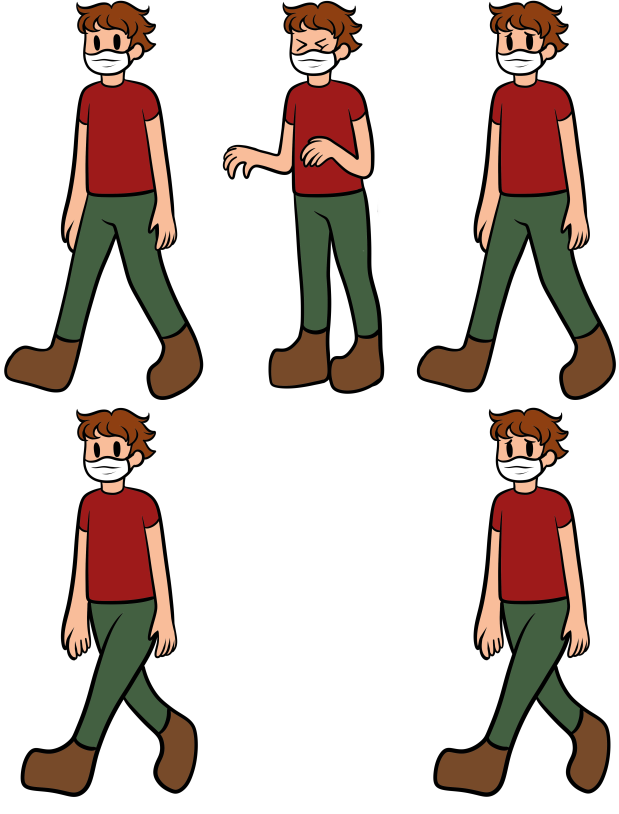
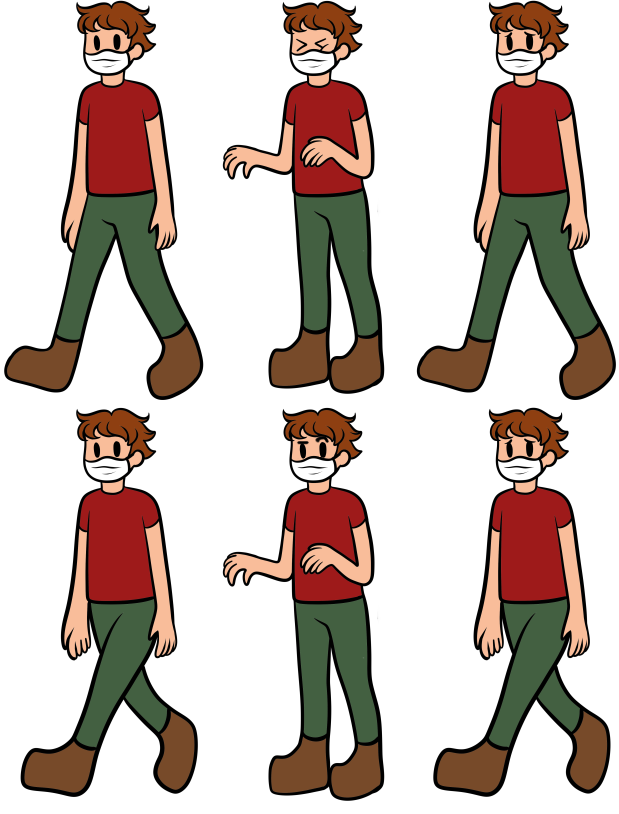
Gifle est maintenant politiquement correct

Changed region(s): [[0.3376, 0.4914, 0.6446, 0.9828]]

diff --git a/Logiciel/source/miniJeu/MiniJeuManager.cpp b/Logiciel/source/miniJeu/MiniJeuManager.cpp
@@ -8,7 +8,8 @@ MiniJeuManager::MiniJeuManager(AppData &app_):app(app_)
     addMiniJeu([](AppData& app) -> MiniJeu * { return new CorrigeCopie::CorrigeCopie(app); }, "CorrigeCopie", "descriptionAmphiReponse");
     addMiniJeu([](AppData& app) -> MiniJeu * { return new DistribMiniTests(app); }, "DistribMiniTests", "descriptionAmphiReponse");
     addMiniJeu([](AppData& app) -> MiniJeu * { return new EteindrePC::EteindrePC(app); }, "EteindrePC", "descriptionAmphiReponse");
-    addMiniJeu([](AppData& app) -> MiniJeu * { return new memoryQuestions::MemoryQuestions(app); }, "MemoryQuestions", "descriptionAmphiReponse");
+    addMiniJeu([](AppData& app) -> MiniJeu* { return new memoryQuestions::MemoryQuestions(app); }, "MemoryQuestions", "descriptionAmphiReponse");
+    addMiniJeu([](AppData& app) -> MiniJeu* { return new Gifle::Gifle(app); }, "Gifle", /*app.option.secretMode ? */"descriptionGifle"/* : "descriptionOuEstSansMasque*/);
     addBoss([](AppData& app) -> MiniJeu* { return new TestProjetPtut::TestProjetPtut(app); }, "TestProjetPtut", "descriptionAmphiReponse");
     addBoss([](AppData& app) -> MiniJeu* { return new Bronx::Bronx(app); }, "Bronx", "descriptionBronx");
 }

diff --git a/Logiciel/source/miniJeu/Gifle/Passant.cpp b/Logiciel/source/miniJeu/Gifle/Passant.cpp
@@ -107,6 +107,7 @@ void Passant::actionOnClick()
 	sf::IntRect newTextureRect(sprite.getTextureRect());
 	newTextureRect.left += newTextureRect.width;
 	newTextureRect.top = 0;
+	//newTextureRect.top = app.option.secretMode ? newTextureRect.height : 0;
 	sprite.setTextureRect(newTextureRect);
 }
 

diff --git a/Logiciel/source/miniJeu/Bronx/Bronx.cpp b/Logiciel/source/miniJeu/Bronx/Bronx.cpp
@@ -129,7 +129,6 @@ void Bronx::Bronx::placeObjects()
                 ingredientsTmp[i * 9 + j * 3 + k]->setPosition(36 + 211 * j + 16 + k * 42, 27 + i * 137 + 102);
                 ingredientsTmp[i * 9 + j * 3 + k]->setCanBeGrabbed(false);
             }
-
         }
     }
 

diff --git a/Logiciel/header/miniJeu/MiniJeuManager.h b/Logiciel/header/miniJeu/MiniJeuManager.h
@@ -16,6 +16,7 @@
 #include "BranchePC/BranchePC.h"
 #include "CorrectTheCode/CorrectTheCode.h"
 #include "CorrigeCopie/CorrigeCopie.h"
+#include "Gifle/Gifle.h"
 #include "Bronx/Bronx.h"
 
 class MiniJeuManager{

diff --git a/Logiciel/main.cpp b/Logiciel/main.cpp
@@ -9,7 +9,6 @@
 #include "header/miniJeu/FactoryMiniJeu.h"
 #include "header/miniJeu/MiniJeu.h"
 #include "header/miniJeu/MiniJeuManager.h"
-#include "header/miniJeu/Gifle/Gifle.h"
 
 using namespace std;
 
